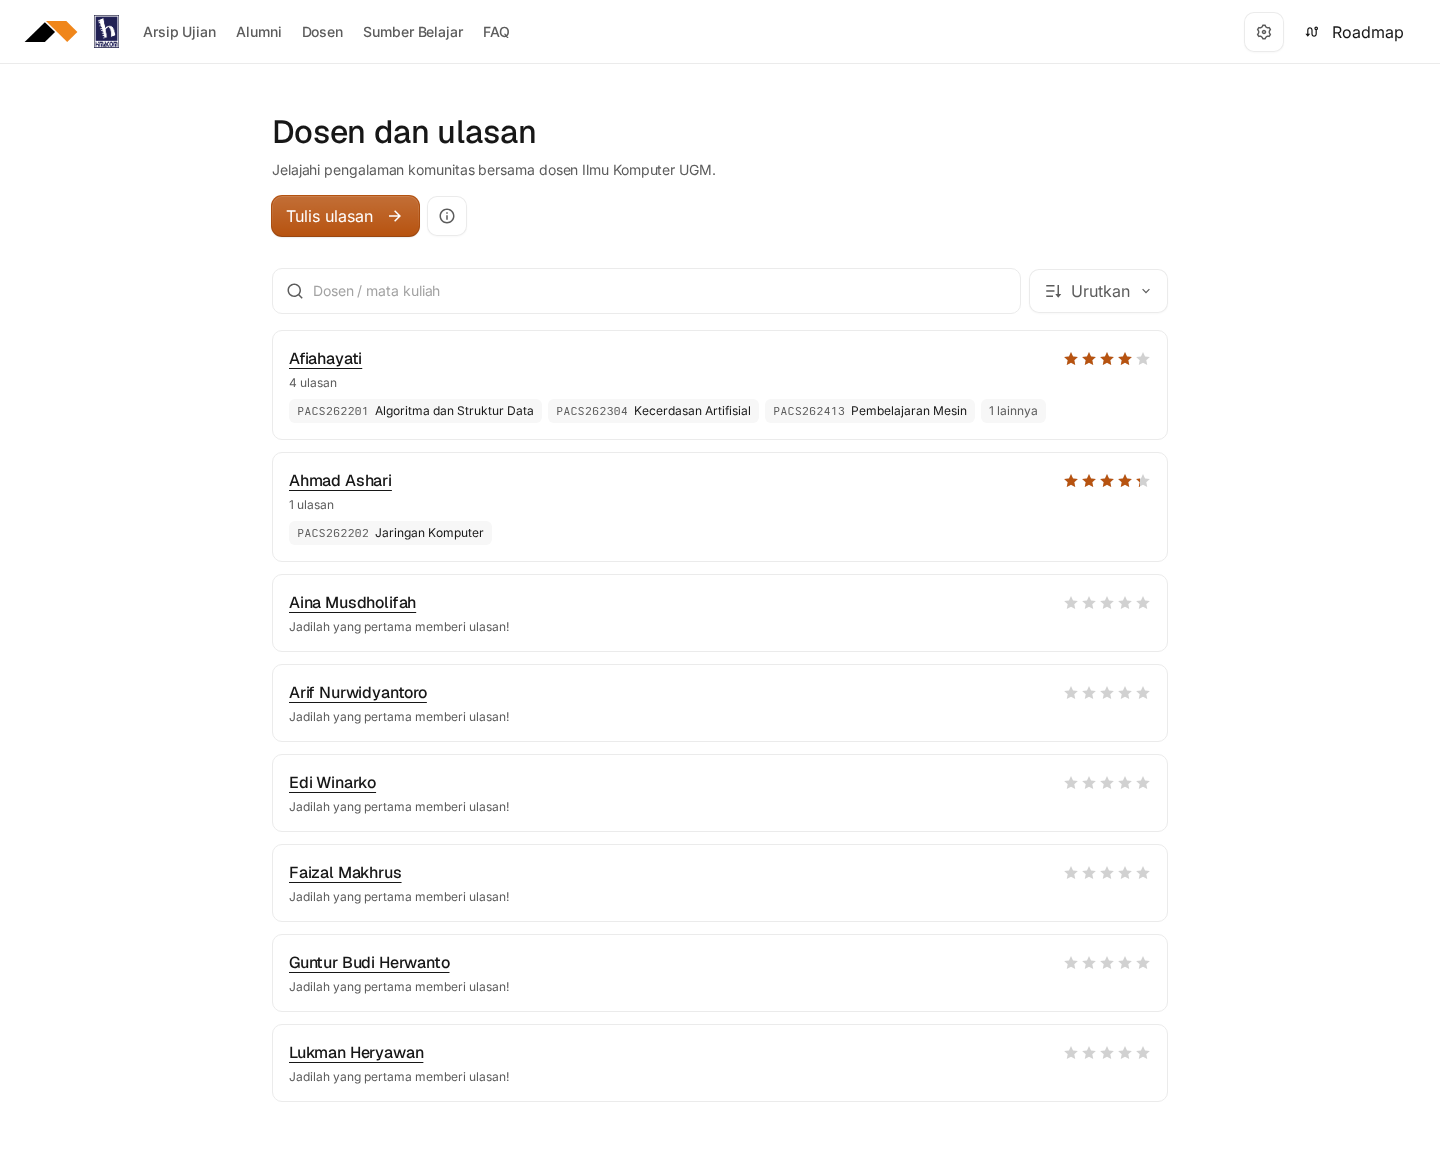
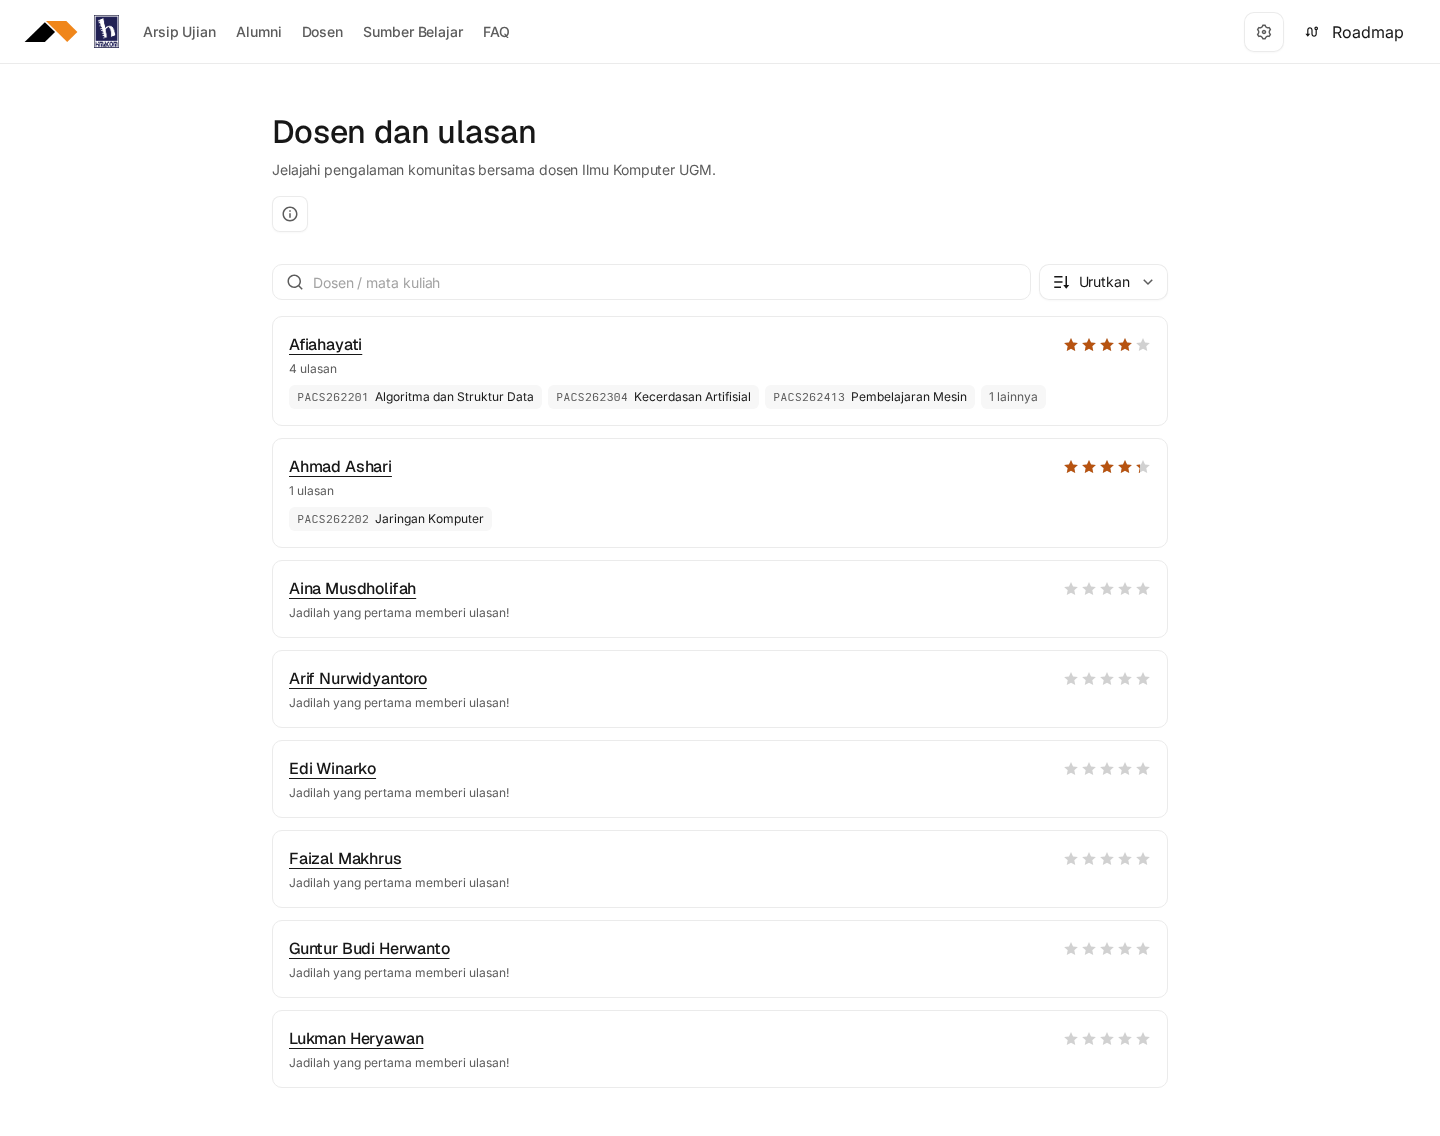
docs: refresh final lecturer review screenshots and changelog

diff --git a/CHANGELOG.md b/CHANGELOG.md
@@ -14,13 +14,21 @@ Usulan fitur, laporan bug, dan koreksi kurikulum semuanya diterima.
 
 ### 2026-11-15
 
+#### Changed
+
+- Menampilkan nama dosen pada judul dialog ulasan, menambahkan ikon pengguna pada nama tampilan, serta menghapus deskripsi pembuka dan bantuan berulang pada mata kuliah, semester, dan pengalaman.
+
+- Merapikan tombol batal dan terbitkan ulasan menjadi selebar konten dan rata kanan di desktop, dengan lebar seimbang di ponsel tetap dipertahankan.
+- Menghapus judul penilaian yang berulang pada formulir ulasan; jarak antarbagian membedakan identitas kuliah dan penilaian tanpa mengganggu keselarasan label dan kontrol.
+- Membatasi formulir ulasan ke detail dosen, menempatkan nama tampilan di awal, serta menyusun label dan kontrol berdampingan di desktop. Mata kuliah dapat dicari dalam dua bahasa dan semester dipilih dari 2021/2022 hingga semester berjalan.
+- Mengganti kotak ulasan kosong pada detail dosen dengan tampilan ringkas berisi ikon, penjelasan, dan tombol tulis ulasan; pilihan mata kuliah tetap terbawa ke formulir.
+
 #### Fixed
 
-- Meringkas kontrol direktori dan detail ulasan dosen serta menyeragamkan pengurutan dan filter mata kuliah dengan komponen seleksi yang sama.
-
+- Mengembalikan sakelar anonim yang aktif secara bawaan pada formulir ulasan; nama tampilan wajib diisi hanya saat mode anonim dimatikan.
+- Meringkas tombol, pencarian, filter, dan pilihan menu pada direktori, detail, serta formulir ulasan dosen menggunakan ukuran kontrol kecil; tombol tulis ulasan tetap memakai gaya FancyButton dengan teks kecil.
+- Menyeragamkan pilihan pengurutan dosen dan ulasan dengan filter mata kuliah memakai komponen seleksi yang sama, termasuk ukuran teks menu, animasi panah, serta sorotan hover dan fokus.
 - Langsung memperbarui jumlah dan status suka ulasan dosen saat ditekan, serta mengembalikannya jika penyimpanan gagal.
-
-- Menyamakan tipografi dan warna teks pengurutan dengan filter mata kuliah pada detail dosen.
 
 ### 2026-11-14
 

diff --git a/AGENTS.md b/AGENTS.md
@@ -10,6 +10,22 @@ For browser preview failures caused by missing Linux libraries, see [docs/browse
 
 ## Lessons
 
+- When form labels are self-explanatory, omit redundant helper copy and put lecturer context in the review dialog title.
+
+- When reordering form fields, preserve existing explicit anonymity controls and submission semantics unless the user asks to change them.
+
+- When grouping review rating rows, use spacing and consistent label/control alignment rather than a redundant heading that competes with field labels.
+
+- When laying out dense review forms, place labels/help beside controls on desktop and display name first, with lecturer identity supplied by its detail page.
+
+- When building reusable empty states, expose left, center, and right alignment and center the lecturer review empty state.
+
+- When compacting a CTA, retain the requested FancyButton component and adjust its typography and size rather than replacing its visual style.
+
+- When adjacent controls both select one value, use the same selection primitive so menu typography, caret motion, and hover behavior stay consistent.
+
+- When building information-dense lecturer screens, use existing compact control variants and avoid forced large trigger or menu-item heights.
+
 - When placing filter and sort controls together, match rendered font family, size, weight, and color instead of relying on each primitive's defaults.
 
 - When using static imports in TanStack server handlers, keep server-only

diff --git a/docs/images/lecturer-reviews/README.md b/docs/images/lecturer-reviews/README.md
@@ -1,0 +1,15 @@
+# Bukti tampilan ulasan dosen
+
+Screenshot diperbarui dari build lokal setelah perapian formulir, kontrol, dan empty state.
+Desktop: 1440 × 1000; mobile: 390 × 844. Tema terang.
+
+- `directory-*.png`: direktori tanpa tombol tulis ulasan; penulisan dimulai dari detail dosen.
+- `detail-*.png`: detail Afiahayati dengan ulasan, rating, dan suka sintetis lokal.
+- `empty-*.png`: detail Aina Musdholifah tanpa ulasan.
+- `write-*.png`: dialog dengan judul nama dosen, sakelar anonim aktif, dan draf sintetis yang tidak diterbitkan. Konten formulir dapat digulir pada ponsel.
+
+Nama dosen dan katalog mata kuliah berasal dari data publik. Isi ulasan dan nama mahasiswa pada gambar adalah data demonstrasi, bukan penilaian dosen sebenarnya. Database lokal, identitas browser, dan secret tidak dipublikasikan. Pengambilan gambar tidak mengirim ulasan atau mengubah produksi.
+
+Verifikasi lokal: `bun run check` (27 task berhasil, 117 tes web; hasil Turbo cache), `bun run build` (6 task berhasil), dan `git diff --check`. Interaksi dialog diperiksa pada desktop/mobile dengan tema terang/gelap: anonim aktif secara bawaan, pengisian nama setelah dinonaktifkan, retensi draf saat berganti anonim, pencarian mata kuliah, pemilihan semester/bintang, judul panjang, dan pembatalan tanpa pengiriman.
+
+Hasil lokal bukan hasil CI GitHub. Peluncuran tetap membutuhkan D1 produksi, schema/seed, secret, dan penyelesaian #26; moderasi fase 2 tetap #27.
